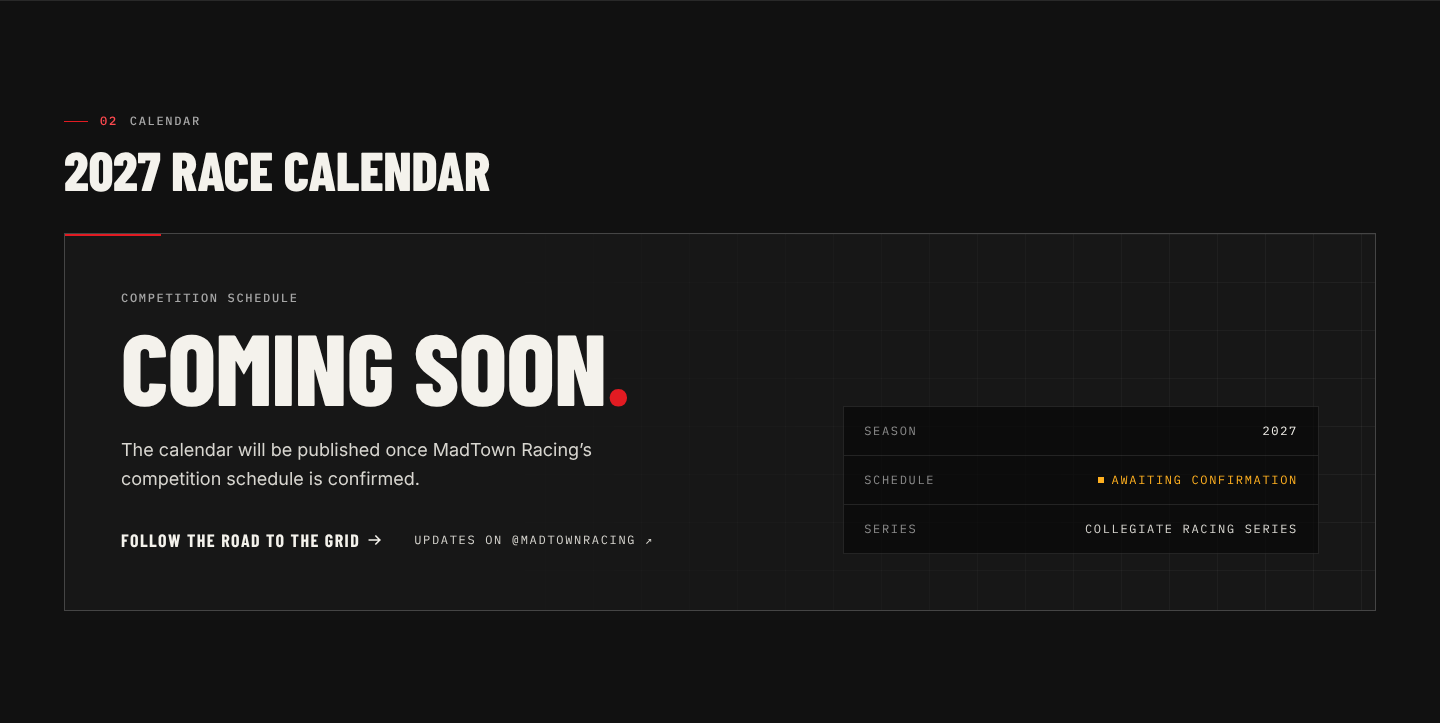
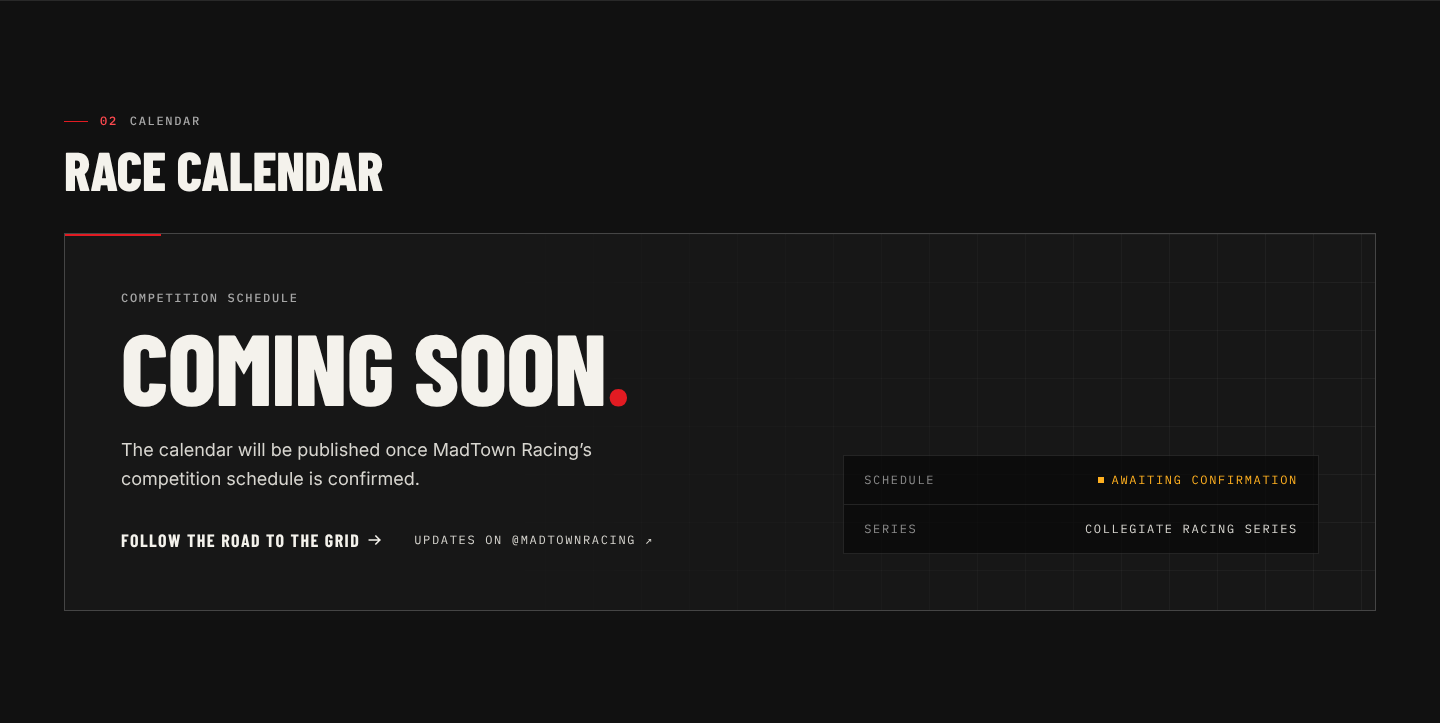
Make race-calendar season optional
- content/racing.ts: calendarSeason is undefined until a season is
  confirmed. calendarTitle() renders "<season> race calendar" when set and
  "Race calendar" otherwise; RaceCalendar hides the Season row when unset.
- Tests derive the expected heading from content instead of hard-coding a
  year, and unit-check that calendarTitle never invents a season.
- README / CONTENT_TODO updated; screenshots refreshed.

Claude-Session: https://claude.ai/code/session_013h6tsXGjctW866QZ6mnHLz

Changed region(s): [[0.0312, 0.213, 0.3438, 0.2739], [0.875, 0.5781, 0.9062, 0.6086], [0.5938, 0.5781, 0.625, 0.6086]]

diff --git a/src/components/racing/RaceCalendar.tsx b/src/components/racing/RaceCalendar.tsx
@@ -8,7 +8,14 @@ import Link from "next/link";
  * Renders confirmed events as TrackCards. With no confirmed events it shows a
  * neutral "coming soon" state that never implies specific circuits or rounds.
  */
-export function RaceCalendar({ season, events }: { season: string; events: RaceEvent[] }) {
+export function RaceCalendar({
+  season,
+  events,
+}: {
+  /** Confirmed season only; omit when unknown. */
+  season?: string | null;
+  events: RaceEvent[];
+}) {
   if (events.length > 0) {
     return (
       <ul className="grid gap-4 sm:grid-cols-2 lg:grid-cols-4">
@@ -23,7 +30,8 @@ export function RaceCalendar({ season, events }: { season: string; events: RaceE
   return <CalendarComingSoon season={season} />;
 }
 
-function CalendarComingSoon({ season }: { season: string }) {
+function CalendarComingSoon({ season }: { season?: string | null }) {
+  const year = season?.trim();
   return (
     <div className="relative overflow-hidden border border-line-strong bg-pit">
       <div
@@ -63,10 +71,12 @@ function CalendarComingSoon({ season }: { season: string }) {
 
         {/* Timing-screen style status readout */}
         <dl className="self-end border border-line bg-track/70 font-mono text-xs tracking-[0.14em] uppercase lg:col-span-5">
-          <div className="flex items-center justify-between gap-4 border-b border-line px-5 py-4">
-            <dt className="text-dim">Season</dt>
-            <dd className="text-warm">{season}</dd>
-          </div>
+          {year && (
+            <div className="flex items-center justify-between gap-4 border-b border-line px-5 py-4">
+              <dt className="text-dim">Season</dt>
+              <dd className="text-warm">{year}</dd>
+            </div>
+          )}
           <div className="flex items-center justify-between gap-4 border-b border-line px-5 py-4">
             <dt className="text-dim">Schedule</dt>
             <dd className="flex items-center gap-2 text-warning">

diff --git a/tests/smoke.spec.ts b/tests/smoke.spec.ts
@@ -1,4 +1,5 @@
 import { expect, test, type Page } from "@playwright/test";
+import { calendarTitle } from "../src/content/racing";
 
 const routes = [
   "/",
@@ -82,10 +83,21 @@ test("missing partner contact details degrade gracefully", async ({ page }) => {
 test("race calendar shows a neutral coming-soon state", async ({ page }) => {
   await page.goto("/racing");
   const calendar = page.locator("section[aria-labelledby='calendar-heading']");
-  await expect(calendar.getByRole("heading", { name: /2027 race calendar/i })).toBeVisible();
+  // Title follows content/racing.ts: "<season> race calendar" only when a season is confirmed.
+  await expect(calendar.locator("#calendar-heading")).toHaveText(calendarTitle());
   await expect(calendar.getByText(/coming soon/i)).toBeVisible();
+  await expect(
+    calendar.getByText(/published once MadTown Racing.s competition schedule is confirmed/i),
+  ).toBeVisible();
   await expect(calendar.getByText(/round \d/i)).toHaveCount(0);
   await expect(calendar.locator("svg path[stroke-dasharray]")).toHaveCount(0);
+});
+
+test("calendar title never invents a season", () => {
+  expect(calendarTitle(undefined)).toBe("Race calendar");
+  expect(calendarTitle(null)).toBe("Race calendar");
+  expect(calendarTitle("  ")).toBe("Race calendar");
+  expect(calendarTitle("2030")).toBe("2030 race calendar");
 });
 
 test("role explorer updates recommendations", async ({ page }) => {

diff --git a/src/app/racing/page.tsx b/src/app/racing/page.tsx
@@ -8,7 +8,13 @@ import { Section } from "@/components/ui/Section";
 import { SectionLabel } from "@/components/ui/SectionLabel";
 import { TelemetryLine } from "@/components/ui/TelemetryLine";
 import { media } from "@/content/media";
-import { calendarSeason, events, raceFormats, racingPillars } from "@/content/racing";
+import {
+  calendarSeason,
+  calendarTitle,
+  events,
+  raceFormats,
+  racingPillars,
+} from "@/content/racing";
 import { siteConfig } from "@/content/site";
 import { pageMetadata } from "@/lib/metadata";
 
@@ -100,7 +106,7 @@ export default function RacingPage() {
         <Container>
           <SectionLabel number="02">Calendar</SectionLabel>
           <DisplayHeading id="calendar-heading" size="md" className="mt-4 mb-10">
-            {calendarSeason} race calendar
+            {calendarTitle(calendarSeason)}
           </DisplayHeading>
           <RaceCalendar season={calendarSeason} events={events} />
         </Container>

diff --git a/src/content/racing.ts b/src/content/racing.ts
@@ -37,8 +37,18 @@ export const racingPillars = [
   },
 ] as const;
 
-/** Season shown on the race calendar heading. */
-export const calendarSeason = "2027";
+/**
+ * Competition season shown on the race calendar, e.g. "2027".
+ * Leave undefined until the team has confirmed its first season — the
+ * calendar then reads simply "Race calendar". Never enter a guessed year.
+ */
+export const calendarSeason: string | undefined = undefined;
+
+/** "2027 race calendar" when a season is confirmed, otherwise "Race calendar". */
+export function calendarTitle(season: string | null | undefined = calendarSeason): string {
+  const year = season?.trim();
+  return year ? `${year} race calendar` : "Race calendar";
+}
 
 /**
  * Confirmed MadTown Racing entries only. While empty, /racing shows the

diff --git a/README.md b/README.md
@@ -48,19 +48,19 @@ browser instead, set `PW_CHROMIUM_PATH=/path/to/chrome`.
 
 Everything a future student leader needs to update lives in `src/content/`:
 
-| File             | What it controls                                                               |
-| ---------------- | ------------------------------------------------------------------------------ |
-| `site.ts`        | Name, location, Instagram, **joinUrl, sponsorEmail, sponsorDeckUrl**, nav      |
-| `roadmap.ts`     | Road to the Grid milestones and their status (`complete/active/next/upcoming`) |
-| `team.ts`        | Departments and **members** (empty = "Team roster coming soon")                |
-| `roles.ts`       | Recruitment roles and the interest → role mapping on `/join`                   |
-| `disciplines.ts` | Homepage "It takes more than a driver" disciplines                             |
-| `car.ts`         | Car systems, descriptions, hotspot positions, and image slots                  |
-| `racing.ts`      | Race formats, pillars, `calendarSeason`, **events** (empty = "Coming soon")    |
-| `partners.ts`    | Benefits, tiers, **partners** (empty = "Founding partners" state)              |
-| `journal.ts`     | Articles (`draft: true` hides an article in production)                        |
-| `pit.ts`         | Illustrative pit sequence (labelled as illustrative in the UI)                 |
-| `media.ts`       | Photography manifest (see below)                                               |
+| File             | What it controls                                                                     |
+| ---------------- | ------------------------------------------------------------------------------------ |
+| `site.ts`        | Name, location, Instagram, **joinUrl, sponsorEmail, sponsorDeckUrl**, nav            |
+| `roadmap.ts`     | Road to the Grid milestones and their status (`complete/active/next/upcoming`)       |
+| `team.ts`        | Departments and **members** (empty = "Team roster coming soon")                      |
+| `roles.ts`       | Recruitment roles and the interest → role mapping on `/join`                         |
+| `disciplines.ts` | Homepage "It takes more than a driver" disciplines                                   |
+| `car.ts`         | Car systems, descriptions, hotspot positions, and image slots                        |
+| `racing.ts`      | Race formats, pillars, optional `calendarSeason`, **events** (empty = "Coming soon") |
+| `partners.ts`    | Benefits, tiers, **partners** (empty = "Founding partners" state)                    |
+| `journal.ts`     | Articles (`draft: true` hides an article in production)                              |
+| `pit.ts`         | Illustrative pit sequence (labelled as illustrative in the UI)                       |
+| `media.ts`       | Photography manifest (see below)                                                     |
 
 Empty URLs/emails never produce dead links — each has a designed fallback state.
 

diff --git a/CONTENT_TODO.md b/CONTENT_TODO.md
@@ -33,8 +33,10 @@ results, sponsors, people, dates, or statistics. Replace items as they become re
 ## Racing — `src/content/racing.ts`
 
 - [ ] Confirmed event entries (round, event, circuit, dates, status, optional map SVG in
-      `/public/tracks`). While empty, `/racing` shows a neutral "2027 Race Calendar — Coming
-      soon" state with no circuits or rounds. Update `calendarSeason` if the season changes.
+      `/public/tracks`). While empty, `/racing` shows a neutral "Race Calendar — Coming soon"
+      state with no circuits or rounds.
+- [ ] `calendarSeason` — leave undefined until the first competition season is confirmed. Once set
+      (e.g. `"2027"`), the heading reads "2027 Race Calendar" and the status panel shows the season.
 - [ ] Review the series-format copy against official CRS rules.
 
 ## Car — `src/content/car.ts`
